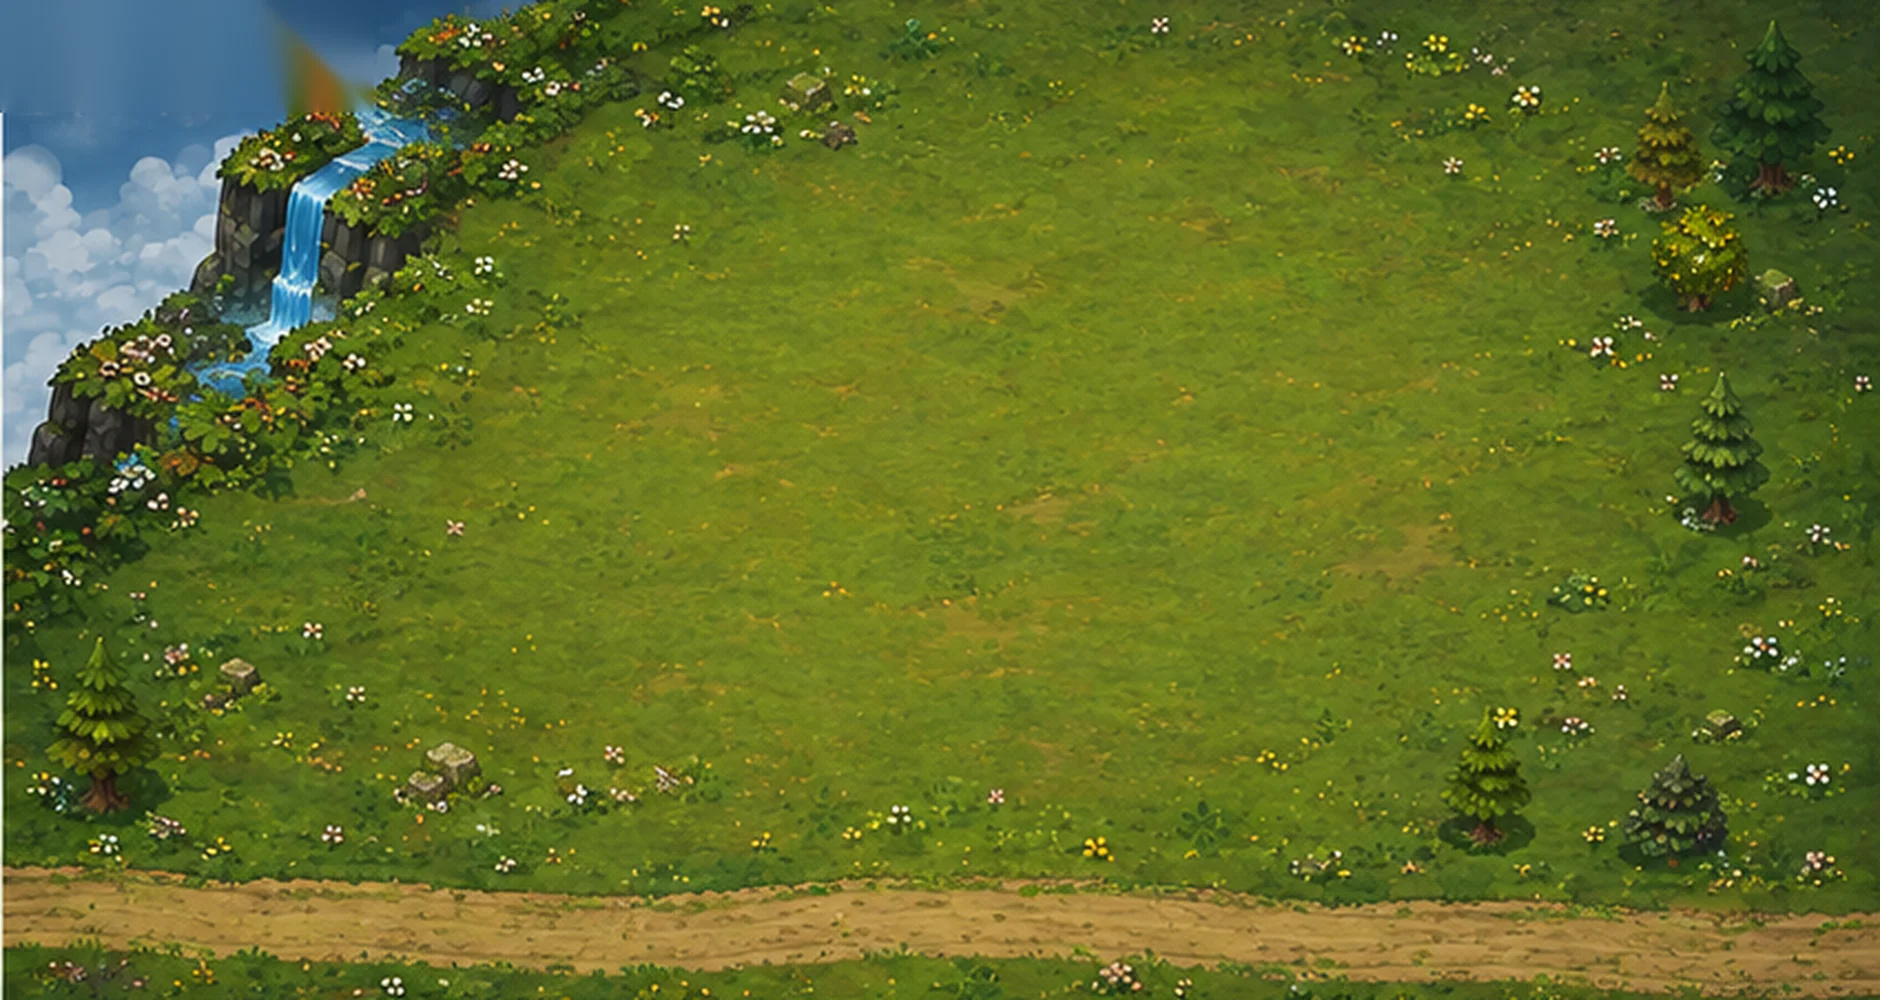
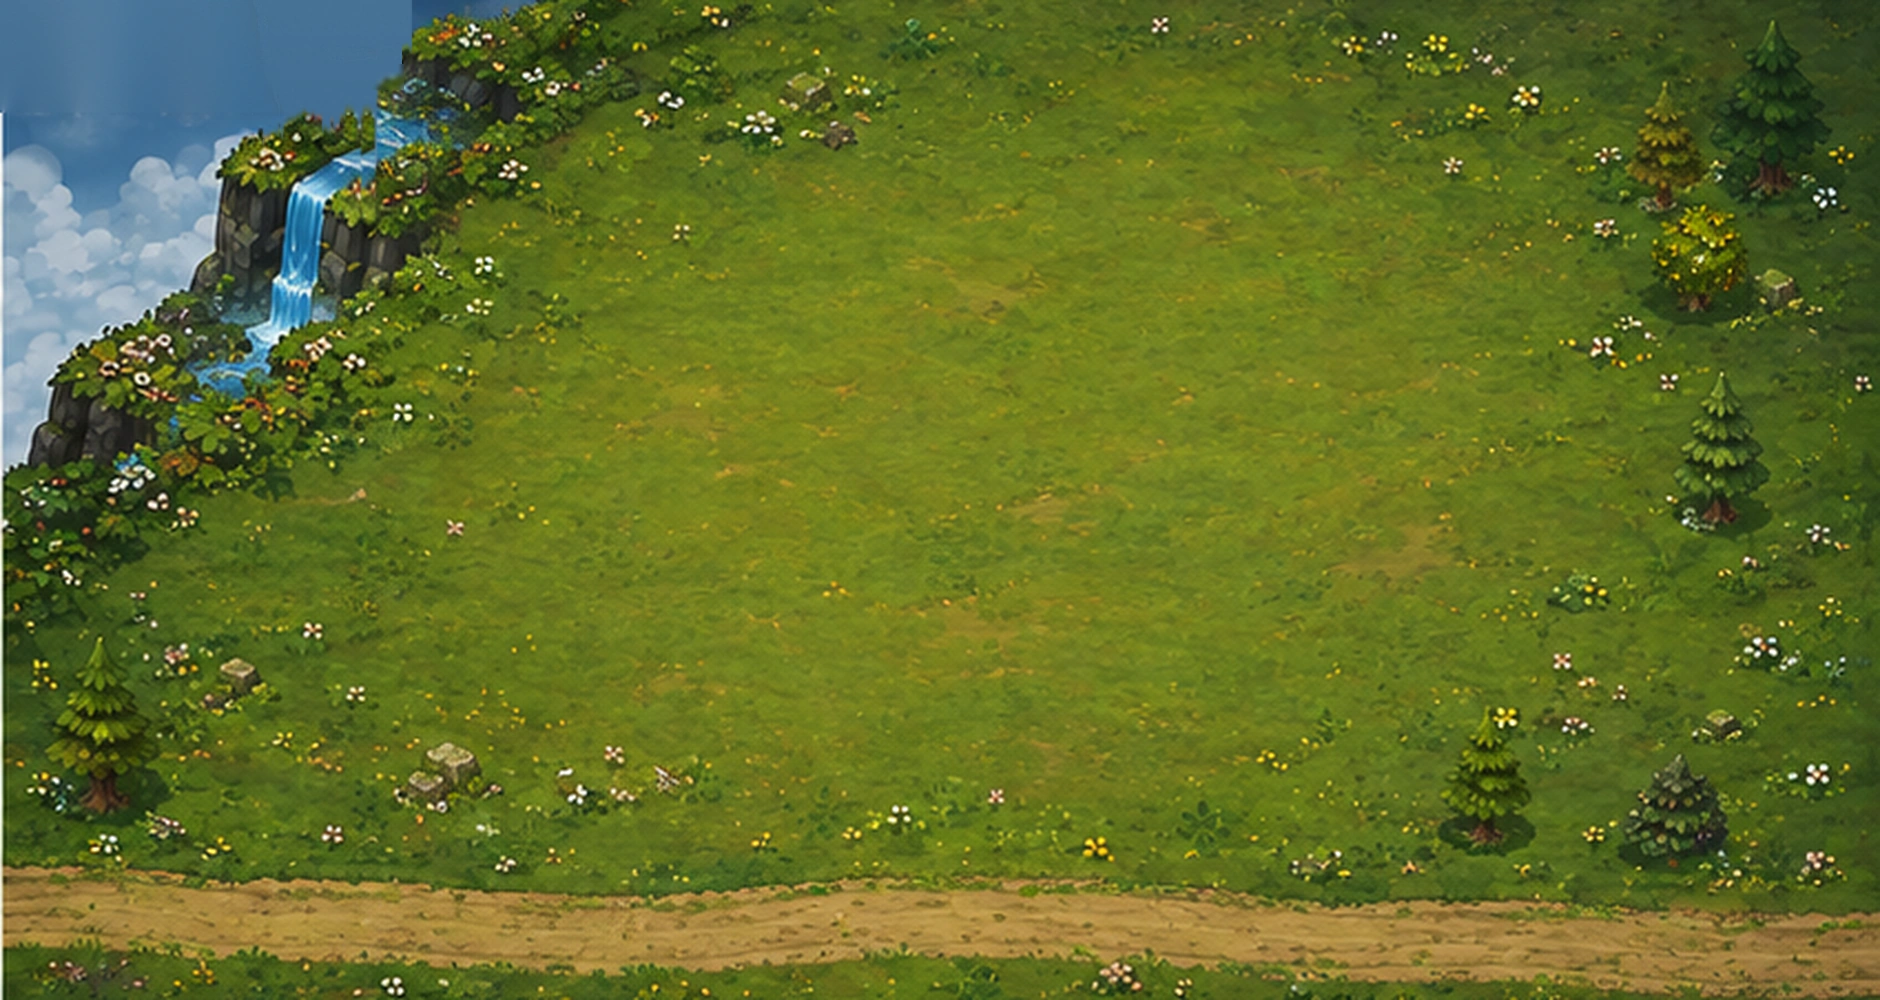
🎨 배경 비주얼 5종 개선 — 고품질 재인코딩·아트 결함 패치·폭포 물살·구름 드리프트·간헐 번개 (유저 5건)
① 배경 뿌옇음: webp 강압축(q~75, 0.9MB)이 원인 — 원본 PNG에서 q95 재인코딩
   (1.7MB, PSNR 38→41~44dB). 이미지 src에 ?v=2 캐시버스터 (유저 구캐시 즉시 무효화)
② 폭포 실감: 밝기 파도만 흐르던 것에 물살 질감 스트립(fallTex — 흰 물살 42+어두운 골 16,
   1회 베이크) 2겹 파랄락스 스크롤 + 낙하점 안개·뭉게 포말·물방울 맥동 추가
③ 구름 드리프트 강화: 2개·소형·저속이라 그림 구름에 묻혀 정지로 보임 → 5개·크게·속도차
④ bg_normal 폭포 좌상단 무지개 얼룩(원본 아트 결함) 제거 — 수풀 실루엣 경계 스캔(질감
   신호 포함) 위쪽 하늘만 기준색 재구성 + 수풀 위 빛기둥은 인접 수풀 클론
⑤ bg_hard 그림 속 정지 번개 제거(휘도 마스크 인페인트) + 그 자리에 간헐 번개 애니
   (drawCornerBolt: seed 결정적 지그재그·글로우 3겹·가지·구름 국소 섬광·이중 플리커,
   0.5s 감쇠 — 기존 8→3s 주기 시스템에 연결, 프로시저럴 폴백은 기존 소형 볼트 유지)

패치 원본 = Desktop\Claude Code\DPD\DPD_backgrounds_revised\bg_{normal,hard}_patched.png
검증: 얼룩 자리 픽셀 하늘색 복원·볼트 잔광은 구름 결 수준(애니 번개가 커버) /
폭포·구름 시간차 픽셀 diff로 애니 확인 / 번개 발화 프레임 휘도 +192 확인

Changed region(s): [[0.1234, 0.0, 0.216, 0.217]]

diff --git a/index.html b/index.html
@@ -3590,7 +3590,7 @@ const BGFULL = { easy: null, normal: null, hard: null, hell: null };
   ['easy', 'normal', 'hard', 'hell'].forEach((k, i) => {
     const im = new Image();
     im.onload = () => { BGFULL[k] = im; setTimeout(() => { try { bgFullBaked(k); bgFallPrep(k); } catch (e) {} }, 120 + i * 160); }; // 미리 선명화 베이크+폭포 마스크 (첫 프레임 히치 방지)
-    im.src = 'assets/bg_' + k + '.webp';
+    im.src = 'assets/bg_' + k + '.webp?v=2'; // v=2: 08-10 재인코딩(q95)+normal 얼룩·hard 번개 패치 — 쿼리로 구캐시 즉시 무효화
   });
 })();
 let bgFullKeyDrawn = null; // 이번 프레임 지면으로 그린 풀맵 키 (null = 풀맵 미사용) — sbGround가 매 프레임 갱신
@@ -3730,6 +3730,33 @@ function bgFallPrep(key) {
   store[key] = { x0, y0, w, h, mask, off, tx, ty, ux: (bx - tx) / len, uy: (by - ty) / len, len, hw: 16, lava: !!a.lava, ex, ey: by };
   return store[key];
 }
+// 💧 물살 질감 스트립 (1회 베이크): 흐름 방향(+x)의 흰 물살 + 어두운 골 — 이걸 스크롤해야 '물이 흐른다'로 읽힌다
+//   (밝기 파도만으로는 2D 그림 위 빛줄기로 보였다 — 2026-08-10 유저 리포트)
+function fallTex(lava) {
+  const store = BGFULL.ftex || (BGFULL.ftex = {});
+  const k2 = lava ? 'l' : 'w';
+  if (store[k2]) return store[k2];
+  const c = document.createElement('canvas'); c.width = 220; c.height = 48;
+  const g = c.getContext('2d');
+  let sd = lava ? 77 : 42;
+  const rnd = () => ((sd = (Math.imul(sd, 1103515245) + 12345) & 0x7fffffff) / 0x7fffffff);
+  const col = lava ? '255,225,120' : '255,255,255';
+  const dark = lava ? '120,30,0' : '30,80,140';
+  for (let i = 0; i < 16; i++) { // 어두운 골 (물기둥 사이 깊이)
+    const x = rnd() * 220, y = rnd() * 48, len = 20 + rnd() * 50, w2 = 1.2 + rnd() * 2.4;
+    const gr = g.createLinearGradient(x, 0, x + len, 0);
+    gr.addColorStop(0, `rgba(${dark},0)`); gr.addColorStop(0.5, `rgba(${dark},${(0.05 + rnd() * 0.09).toFixed(2)})`); gr.addColorStop(1, `rgba(${dark},0)`);
+    g.fillStyle = gr; g.fillRect(x, y - w2 / 2, len, w2);
+  }
+  for (let i = 0; i < 42; i++) { // 흰 물살 (길이·폭·밝기 변주)
+    const x = rnd() * 220, y = rnd() * 48, len = 14 + rnd() * 42, w2 = 0.8 + rnd() * 1.8;
+    const gr = g.createLinearGradient(x, 0, x + len, 0);
+    gr.addColorStop(0, `rgba(${col},0)`); gr.addColorStop(0.5, `rgba(${col},${(0.10 + rnd() * 0.25).toFixed(2)})`); gr.addColorStop(1, `rgba(${col},0)`);
+    g.fillStyle = gr; g.fillRect(x, y - w2 / 2, len, w2);
+  }
+  store[k2] = c;
+  return c;
+}
 function drawFallFlow(key) {
   const F = bgFallPrep(key);
   if (!F) return;
@@ -3738,14 +3765,24 @@ function drawFallFlow(key) {
   og.save();
   og.translate(F.tx - F.x0, F.ty - F.y0);
   og.rotate(Math.atan2(F.uy, F.ux)); // +x = 흐름 방향
-  const spd = F.lava ? 26 : 66;
-  for (let i = 0; i < 4; i++) {
+  const spd = F.lava ? 30 : 78;
+  // ── 물살 질감 2겹 파랄락스 (속도·크기 차 = 유속감의 핵심)
+  const tex = fallTex(F.lava), tw = tex.width, th = tex.height;
+  for (const [mul, alpha, scl] of [[1, 0.8, 1], [1.55, 0.45, 1.5]]) {
+    og.globalAlpha = alpha;
+    const o2 = (t * spd * mul) % tw;
+    for (let x2 = o2 - tw; x2 < F.len + 24; x2 += tw)
+      og.drawImage(tex, x2, -F.hw - 8 - (scl - 1) * th / 2, tw, th * scl);
+  }
+  og.globalAlpha = 1;
+  // ── 밝은 파도 2줄 (기존 밴드 — 질감 위 하이라이트로 축소 유지)
+  for (let i = 0; i < 2; i++) {
     const cyc = F.len + 34;
-    const pos = ((t * spd * (1 + i * 0.13) + i * 41) % cyc) - 17;
-    const bw = 15 + (i % 2) * 8;
+    const pos = ((t * spd * (1.1 + i * 0.17) + i * 41) % cyc) - 17;
+    const bw = 15 + i * 8;
     const gr = og.createLinearGradient(pos - bw, 0, pos + bw, 0);
     const col = F.lava ? '255,235,140' : '255,255,255';
-    gr.addColorStop(0, `rgba(${col},0)`); gr.addColorStop(0.5, `rgba(${col},${F.lava ? 0.34 : 0.3})`); gr.addColorStop(1, `rgba(${col},0)`);
+    gr.addColorStop(0, `rgba(${col},0)`); gr.addColorStop(0.5, `rgba(${col},${F.lava ? 0.26 : 0.22})`); gr.addColorStop(1, `rgba(${col},0)`);
     og.fillStyle = gr;
     og.fillRect(pos - bw, -F.hw - 8, bw * 2, F.hw * 2 + 16);
   }
@@ -3754,13 +3791,20 @@ function drawFallFlow(key) {
   og.drawImage(F.mask, 0, 0);
   og.globalCompositeOperation = 'source-over';
   ctx.drawImage(F.off, F.x0, F.y0);
-  // 낙하점 물방울 (마스크 꼬리 실측 중심 부근 맥동)
-  const bx2 = F.ex, by2 = F.ey;
+  // ── 낙하점: 안개 + 뭉게 포말 + 튀는 물방울 (전부 맥동)
+  const fc = F.lava ? '255,215,80' : '255,255,255';
+  ctx.fillStyle = `rgba(${fc},${(0.10 + 0.05 * Math.sin(t * 5)).toFixed(2)})`;
+  ctx.beginPath(); ctx.ellipse(F.ex, F.ey - 1, F.hw * 1.25, 6, 0, 0, 6.28); ctx.fill();
+  for (let i = 0; i < 4; i++) {
+    const a2 = Math.max(0, 0.15 + 0.10 * Math.sin(t * 4.2 + i * 1.7));
+    ctx.fillStyle = `rgba(${fc},${a2.toFixed(2)})`;
+    const fx2 = F.ex + Math.sin(i * 2.4 + t * 1.3) * F.hw * 0.55;
+    ctx.beginPath(); ctx.arc(fx2, F.ey - 2 - (i % 2) * 3, 3 + (i % 3), 0, 6.28); ctx.fill();
+  }
   for (let i = 0; i < 3; i++) {
-    const col = F.lava ? '255,215,80' : '255,255,255';
-    ctx.fillStyle = `rgba(${col},${((0.5 + 0.5 * Math.sin(t * 6 + i * 2.09)) * 0.4).toFixed(2)})`;
-    const px = bx2 + Math.sin(t * 3.1 + i * 2.7) * F.hw * 0.6;
-    ctx.beginPath(); ctx.arc(px, by2 - 2 - Math.abs(Math.sin(t * 4 + i)) * 5, 1.5, 0, 6.28); ctx.fill();
+    ctx.fillStyle = `rgba(${fc},${((0.5 + 0.5 * Math.sin(t * 6 + i * 2.09)) * 0.4).toFixed(2)})`;
+    const px = F.ex + Math.sin(t * 3.1 + i * 2.7) * F.hw * 0.6;
+    ctx.beginPath(); ctx.arc(px, F.ey - 2 - Math.abs(Math.sin(t * 4 + i)) * 5, 1.5, 0, 6.28); ctx.fill();
   }
 }
 // 💧☁ 라이브 오버레이 — S.time 애니메이션이라 베이크 금지 (베이크했다 얼어붙은 횃불 회귀의 교훈)
@@ -3792,15 +3836,18 @@ function drawCliffLive(m, ph) {
 }
 // ☁ 드리프트 구름 (풀맵·합성 공용): 페이즈색, 코너 타원 클립 + 하늘 밖 진입 전 페이드 (xLim = 하늘 폭)
 function drawSkyClouds(ph, xLim) {
+  // 2026-08-10 강화: 2개·소형·저속이라 그림 속 구름에 묻혀 "고정된 것처럼" 보였다 (유저 리포트) → 5개·크게·속도차 파랄락스
   const t = S.time;
   const cc = ph >= 4 ? '80,48,40' : ph >= 2 ? '182,192,224' : '255,255,255';
   ctx.save();
   ctx.beginPath(); ctx.ellipse(0, 0, 296, 207, 0, 0, Math.PI / 2); ctx.lineTo(0, 0); ctx.closePath(); ctx.clip();
-  for (let i = 0; i < 2; i++) {
-    const cx2 = ((t * (5.5 + i * 3) + i * 170) % (xLim + 110)) - 40, cy2 = 15 + i * 21, cw2 = 26 - i * 7;
+  for (let i = 0; i < 5; i++) {
+    const cx2 = ((t * (7 + i * 2.6) + i * 133) % (xLim + 130)) - 48;
+    const cy2 = 11 + (i * 37 % 58) + Math.sin(t * 0.5 + i * 2.1) * 2.5;
+    const cw2 = 31 - (i % 3) * 6;
     const fade = Math.max(0, Math.min(1, (xLim - cx2) / 48));
     if (!fade) continue;
-    ctx.fillStyle = `rgba(${cc},${((0.34 - i * 0.08) * fade).toFixed(2)})`;
+    ctx.fillStyle = `rgba(${cc},${((0.40 - (i % 3) * 0.09) * fade).toFixed(2)})`;
     ctx.beginPath();
     ctx.arc(cx2, cy2, cw2 * 0.42, 0, 6.28);
     ctx.arc(cx2 - cw2 * 0.42, cy2 + 3, cw2 * 0.3, 0, 6.28);
@@ -4189,6 +4236,47 @@ function drawSpringscape() {
   }
   if (bgFullKeyDrawn !== 'hell') sbPhaseTint(skyPhase()); // 🌅 쉬움도 라운드 따라 저물어간다 (풀맵 헬 지면엔 헬 틴트 불필요)
 }
+// ⚡ 좌측 하늘 번개 볼트: seed 결정적 지그재그 + 글로우 3겹 + 가지 + 구름 국소 섬광.
+//    bg_hard 그림의 정지 번개는 아트에서 지웠고(08-10, bg_hard_patched), 그 자리(논리 x38~85·y88~230)에 간헐적으로 친다.
+//    phase = 0~1 진행도 (이중 플리커 후 감쇠).
+function drawCornerBolt(seed, phase) {
+  let sd = Math.imul(seed ^ 0x9e37, 2654435761) | 0;
+  const rnd = () => ((sd = (Math.imul(sd, 1103515245) + 12345) & 0x7fffffff) / 0x7fffffff);
+  const bright = phase < 0.22 ? 1 : phase < 0.34 ? 0.35 : Math.max(0, 1.45 - phase * 1.45); // 플래시→딥→재감쇠
+  if (bright <= 0.01) return;
+  const x0 = 40 + rnd() * 44, y0 = 88 + rnd() * 16;
+  // 구름 국소 섬광
+  const rg = ctx.createRadialGradient(x0, y0 + 20, 4, x0, y0 + 20, 115);
+  rg.addColorStop(0, `rgba(205,212,255,${(0.45 * bright).toFixed(2)})`); rg.addColorStop(1, 'rgba(205,212,255,0)');
+  ctx.fillStyle = rg; ctx.fillRect(0, 0, 200, 260);
+  // 본 줄기
+  const pts = [[x0, y0]];
+  let bx = x0, by = y0;
+  while (by < 212 && pts.length < 11) {
+    bx += (rnd() - 0.5) * 26; by += 13 + rnd() * 16;
+    pts.push([Math.max(14, Math.min(120, bx)), by]);
+  }
+  ctx.lineJoin = 'round';
+  for (const [w2, a2] of [[6, 0.24], [2.6, 0.75], [1.1, 0.95]]) {
+    ctx.strokeStyle = w2 > 2 ? `rgba(160,170,255,${(a2 * bright).toFixed(2)})` : `rgba(255,255,255,${(a2 * bright).toFixed(2)})`;
+    ctx.lineWidth = w2;
+    ctx.beginPath(); ctx.moveTo(pts[0][0], pts[0][1]);
+    for (let i = 1; i < pts.length; i++) ctx.lineTo(pts[i][0], pts[i][1]);
+    ctx.stroke();
+  }
+  // 가지 1~2개
+  const nb = 1 + (rnd() * 2 | 0);
+  for (let b2 = 0; b2 < nb; b2++) {
+    const bi = 1 + (rnd() * (pts.length - 2) | 0);
+    let [gx, gy] = pts[bi];
+    ctx.strokeStyle = `rgba(220,226,255,${(0.5 * bright).toFixed(2)})`; ctx.lineWidth = 1;
+    ctx.beginPath(); ctx.moveTo(gx, gy);
+    const dir = rnd() < 0.5 ? -1 : 1;
+    for (let j = 0; j < 3; j++) { gx += dir * (6 + rnd() * 10); gy += 8 + rnd() * 9; ctx.lineTo(gx, gy); }
+    ctx.stroke();
+  }
+  ctx.lineWidth = 1;
+}
 // 🔥 어려움: 폭풍 전야 — 회보라 하늘 + 흐르는 먹구름 + 눕는 풀·낙엽 + 멀리 번개 + 까마귀
 function drawStormscape() {
   const T = S.time, k = Math.min(1, S.round / 80); // 진행도: 갈수록 세계가 무너진다
@@ -4226,15 +4314,24 @@ function drawStormscape() {
       { ctx.moveTo(cx2 + ox * kk + r * kk, y0c + oy * kk); ctx.arc(cx2 + ox * kk, y0c + oy * kk, r * kk, 0, 6.28); }
     ctx.fill();
   }
-  if (lightning) { // ⚡ 번개: 후반엔 가끔 두 줄기
+  if (lightning) { // 전면 섬광 (0.14s)
     ctx.fillStyle = `rgba(255,255,255,${(0.10 + 0.05 * k).toFixed(2)})`; ctx.fillRect(0, 0, VW, VH);
-    const strikes = k > 0.7 && ((T / period) | 0) % 3 === 0 ? 2 : 1;
-    for (let si = 0; si < strikes; si++) {
-      const lx = 180 + (((T / period) | 0) * 367 + si * 251) % 600;
-      ctx.strokeStyle = 'rgba(255,250,220,0.9)'; ctx.lineWidth = 2;
-      ctx.beginPath(); ctx.moveTo(lx, 0);
-      ctx.lineTo(lx - 14, 34); ctx.lineTo(lx + 8, 52); ctx.lineTo(lx - 10, 88 + k * 40); ctx.stroke();
-      ctx.lineWidth = 1;
+  }
+  const lt = (T * 0.9 + 3) % period;
+  if (lt < 0.5) { // ⚡ 번개 볼트 (0.5s 감쇠 연출 — 섬광보다 길게 남는다)
+    const strike = ((T * 0.9 + 3) / period) | 0;
+    if (bgFullKeyDrawn) { // 풀맵: 그림 속 번개를 지운 자리(좌측 하늘)에 진짜 번개가 친다 (08-10 유저: "멈춘 번개 말고 역동적으로")
+      drawCornerBolt(strike, lt / 0.5);
+      if (k > 0.7 && strike % 3 === 0) drawCornerBolt(strike * 7 + 3, lt / 0.5); // 후반: 가끔 두 줄기
+    } else if (lightning) { // 프로시저럴 폴백: 기존 소형 볼트
+      const strikes = k > 0.7 && strike % 3 === 0 ? 2 : 1;
+      for (let si = 0; si < strikes; si++) {
+        const lx = 180 + (strike * 367 + si * 251) % 600;
+        ctx.strokeStyle = 'rgba(255,250,220,0.9)'; ctx.lineWidth = 2;
+        ctx.beginPath(); ctx.moveTo(lx, 0);
+        ctx.lineTo(lx - 14, 34); ctx.lineTo(lx + 8, 52); ctx.lineTo(lx - 10, 88 + k * 40); ctx.stroke();
+        ctx.lineWidth = 1;
+      }
     }
   }
   if (k > 0.55) { // 🌧 가는 빗줄기 (후반)
